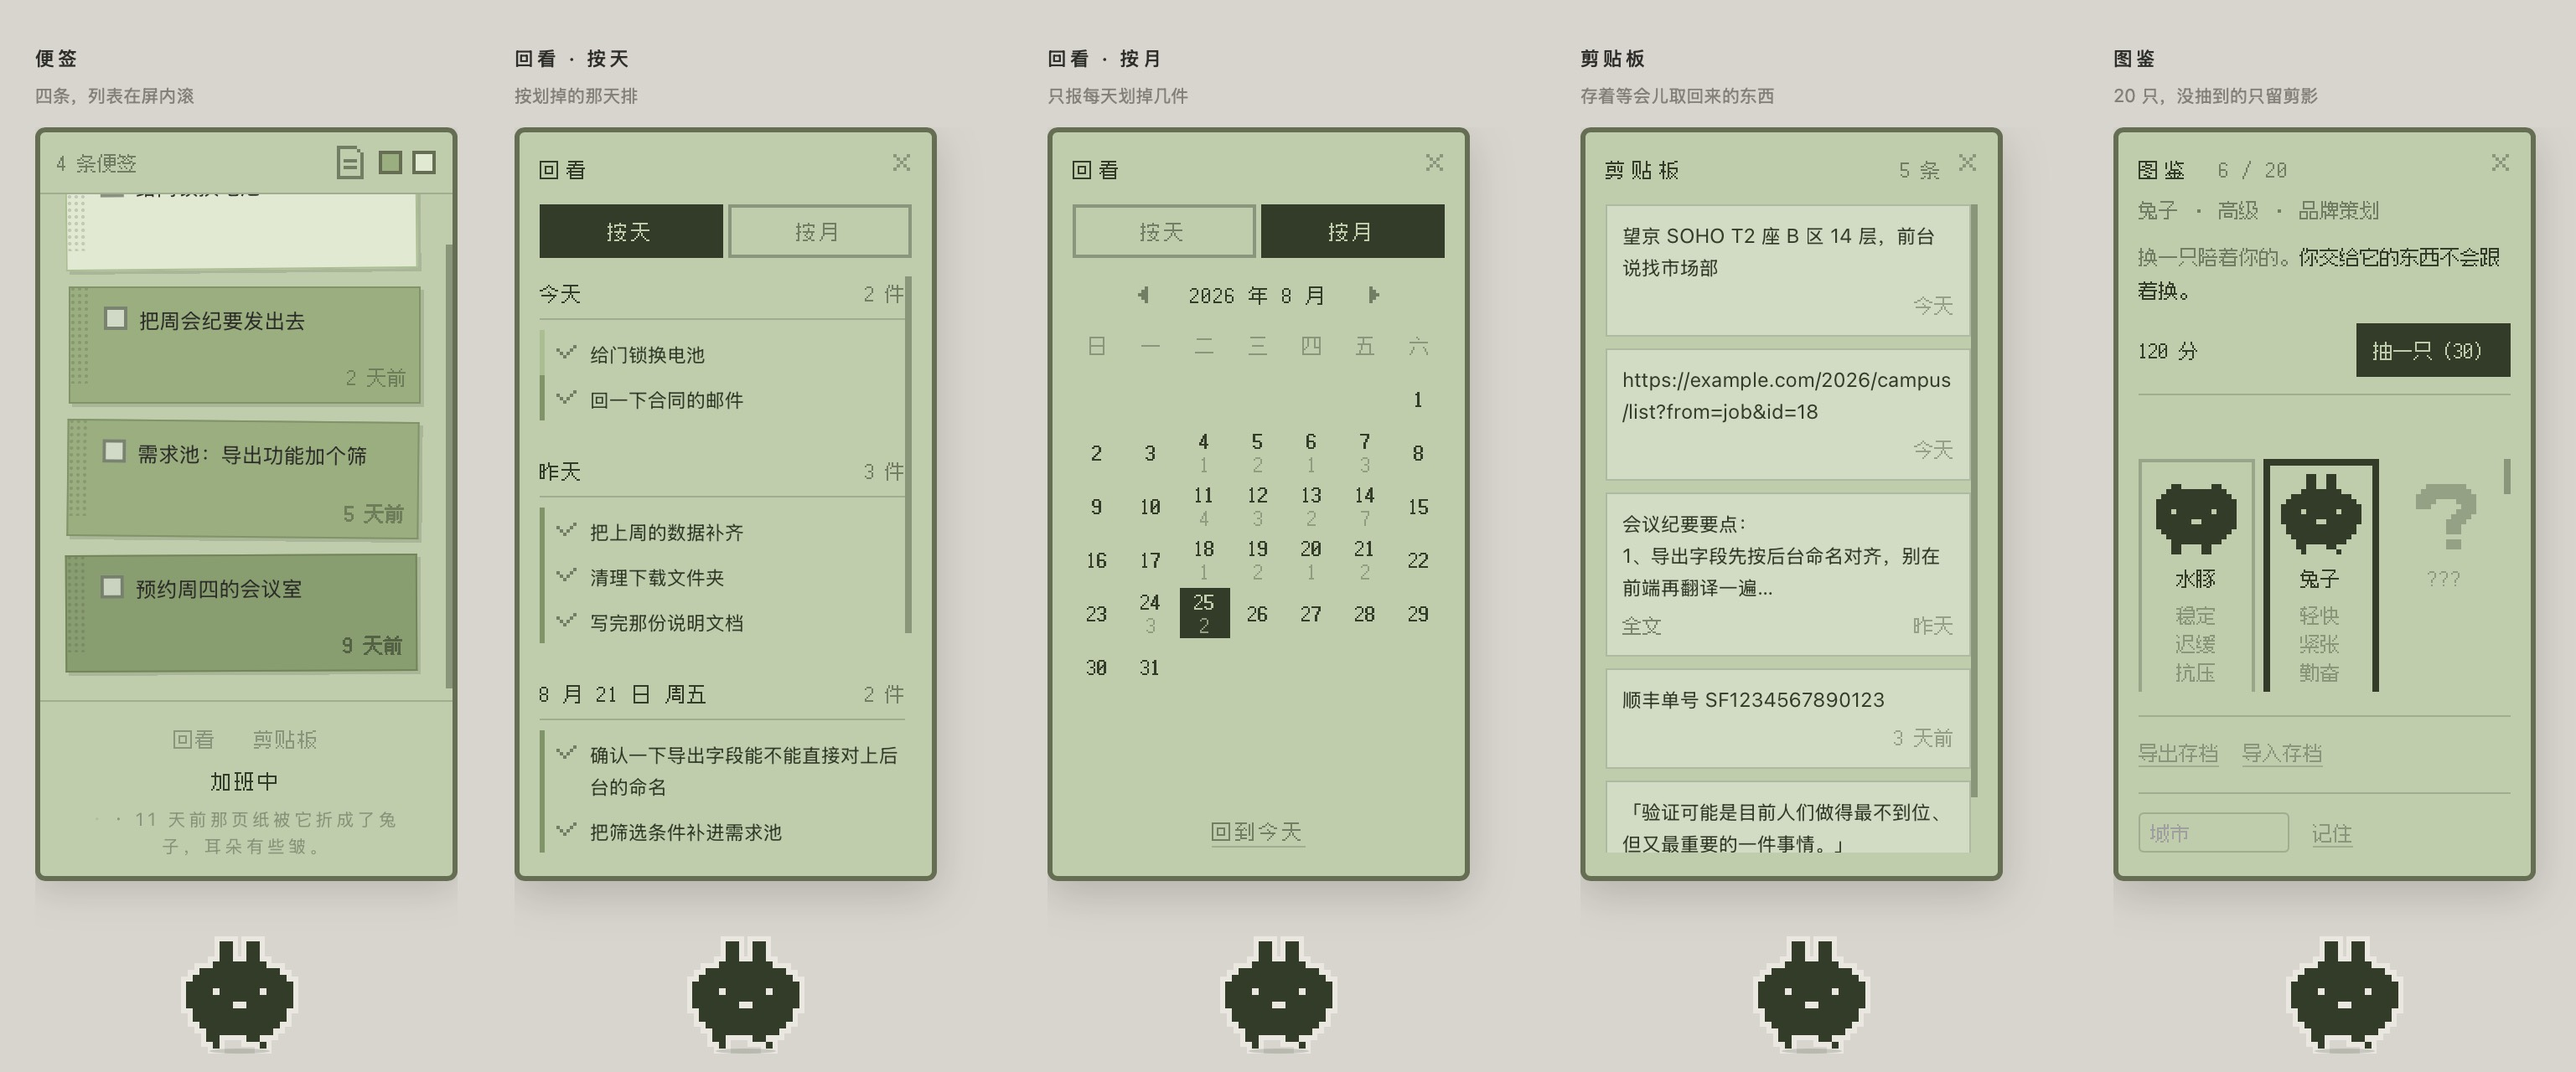
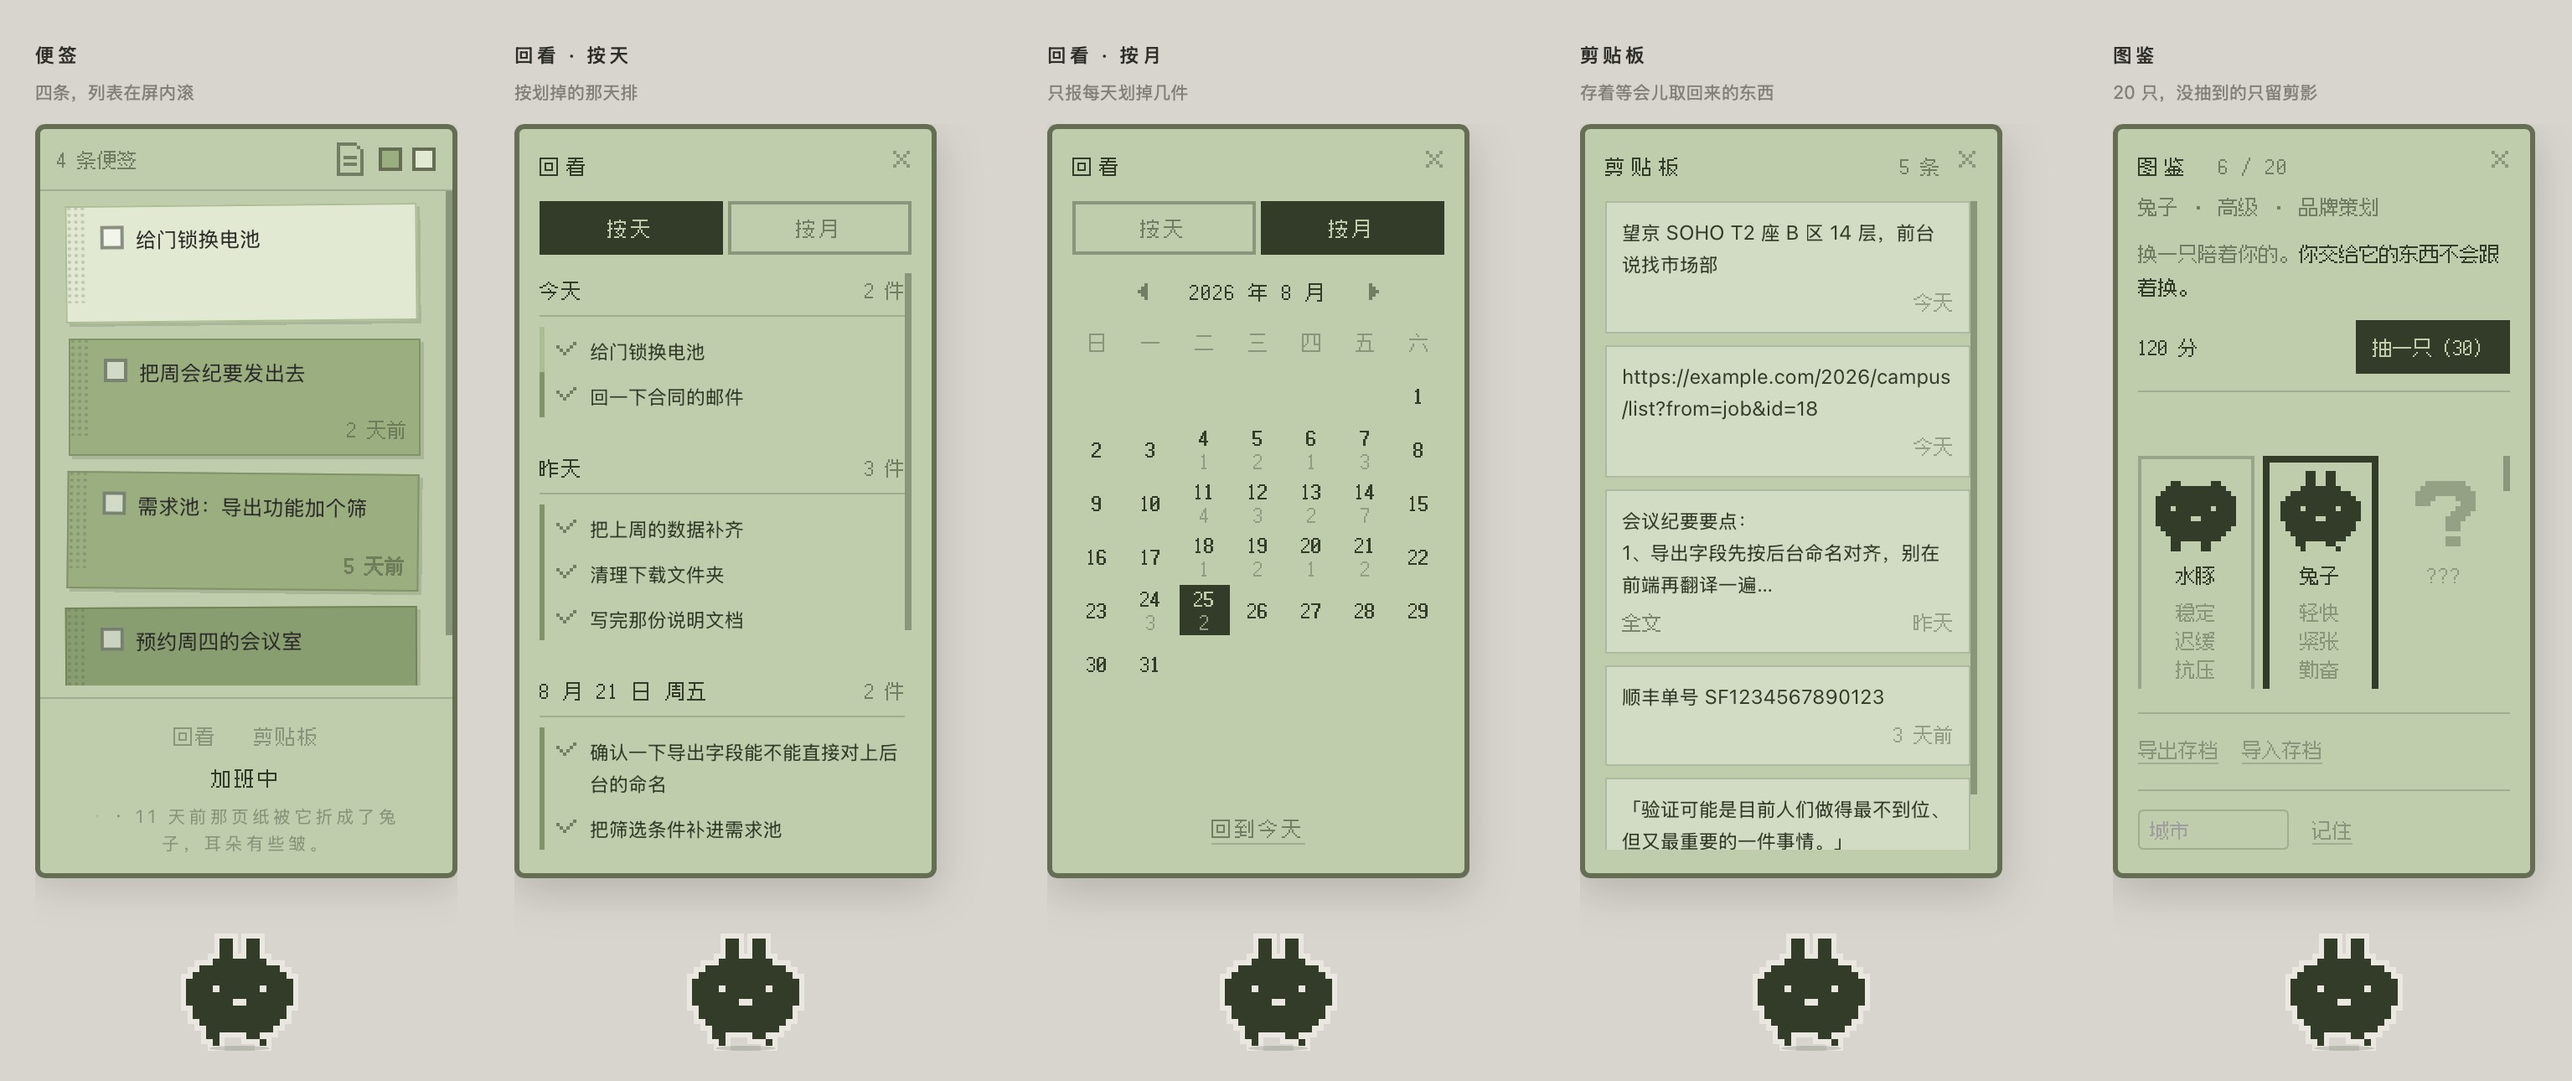
docs: 换上新的五块屏截图，alt 补上剪贴板
截图里图鉴那块已经有填城市的输入框了。alt 原来写的是「四块界面」，
漏了剪贴板，跟着改成五块。

diff --git a/README.md b/README.md
@@ -11,7 +11,7 @@
 
 <p align="center">
   <img src="docs/pet2.jpg" width="300" alt="它站在桌面上"><br><br>
-  <img src="docs/panel3.jpg" width="900" alt="便签、回看按天、回看按月、图鉴四块界面">
+  <img src="docs/panel3.jpg" width="900" alt="便签、回看按天、回看按月、剪贴板、图鉴五块界面">
 </p>
 
 
